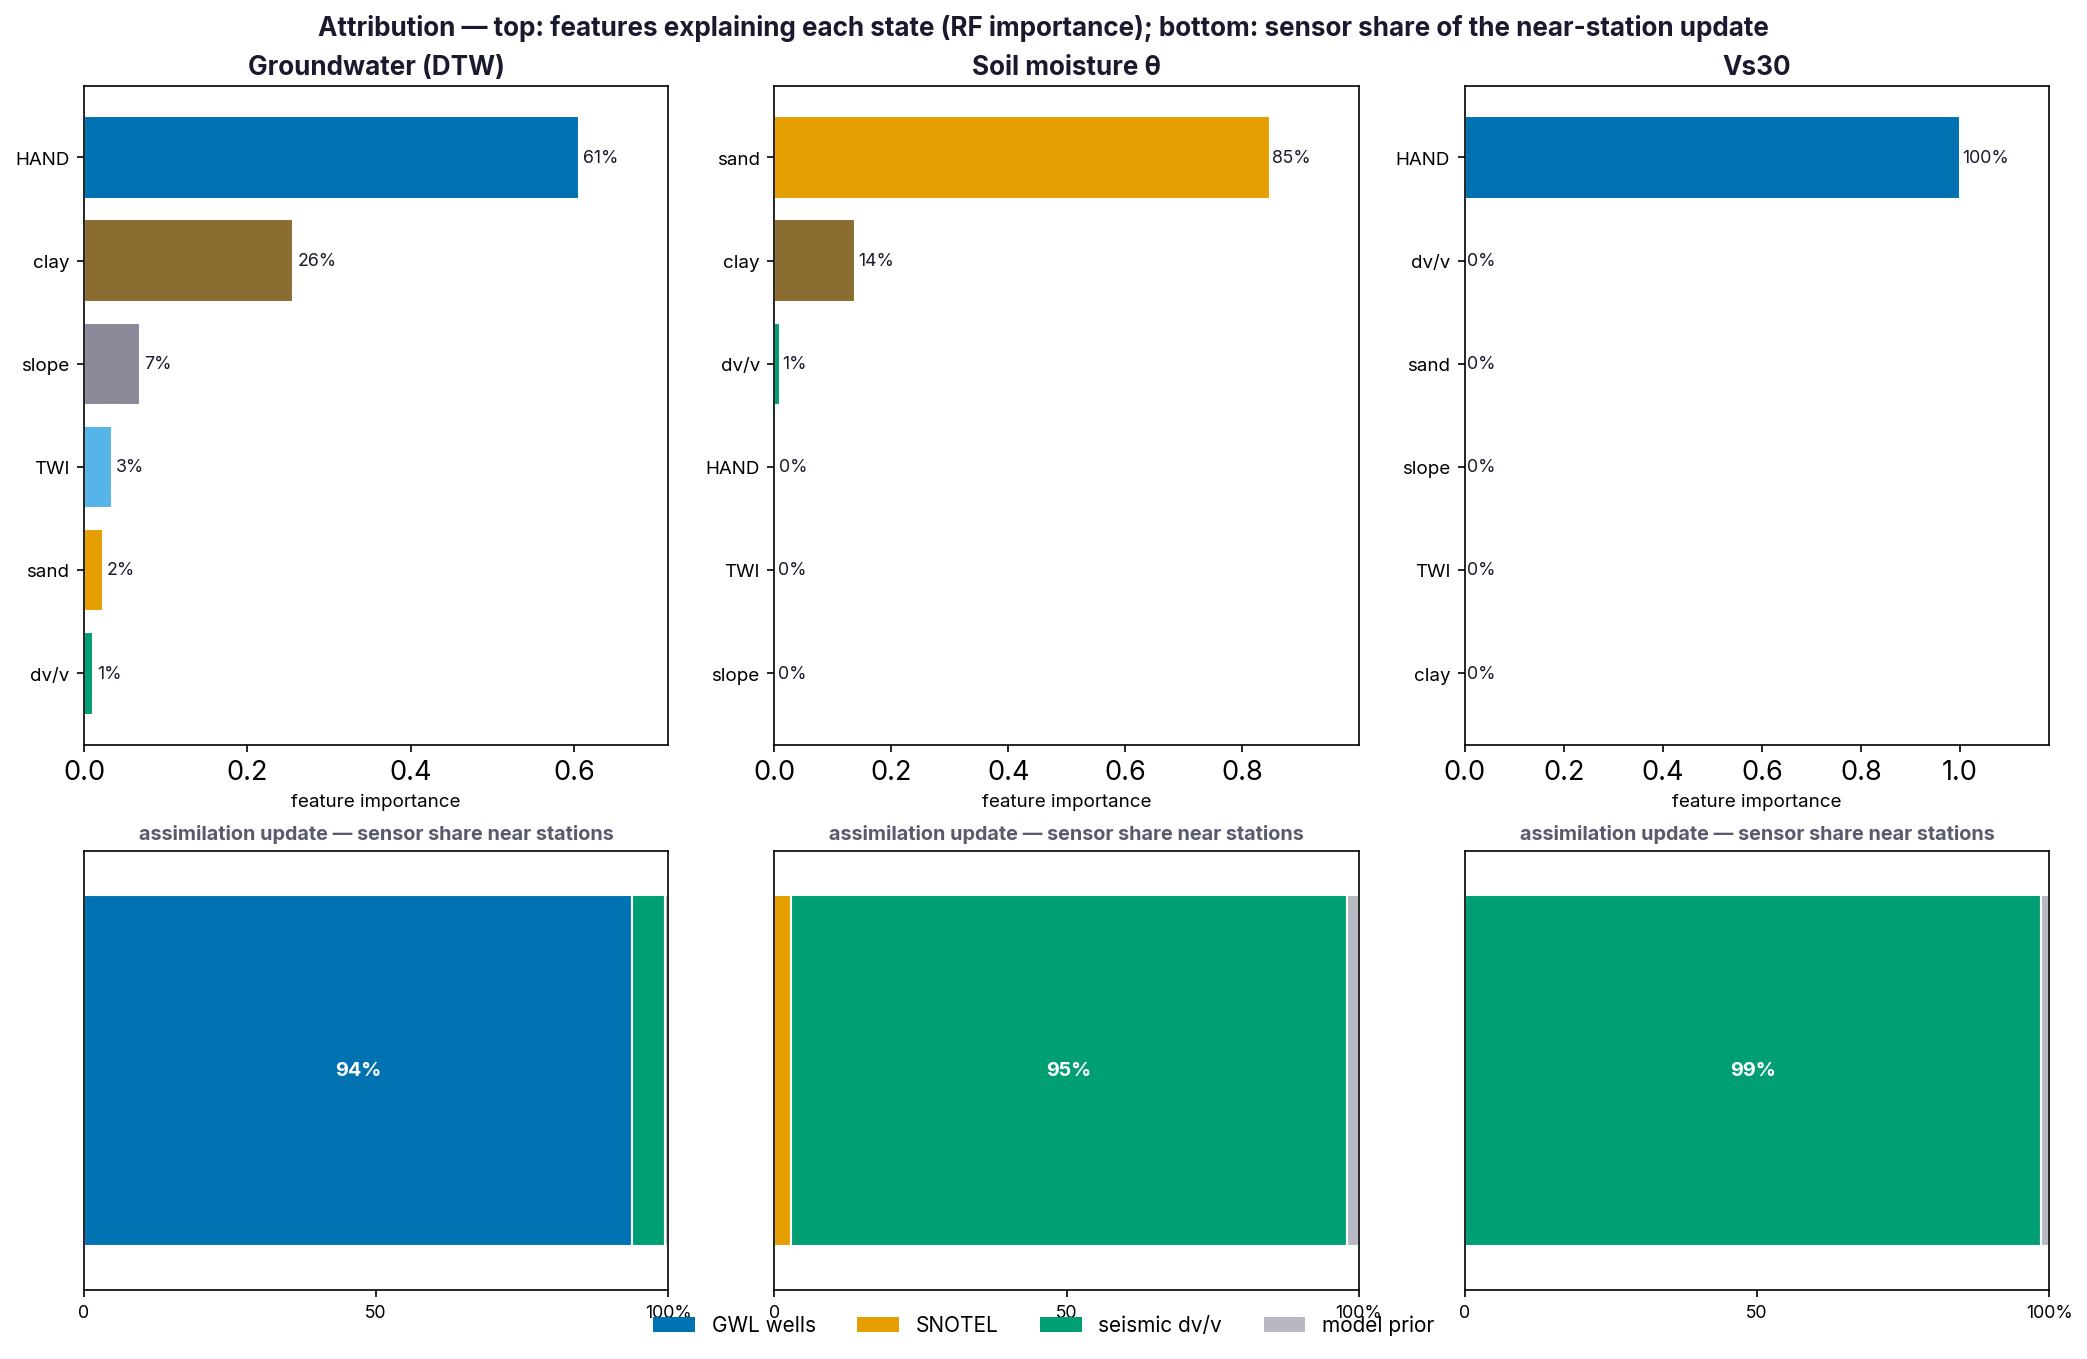
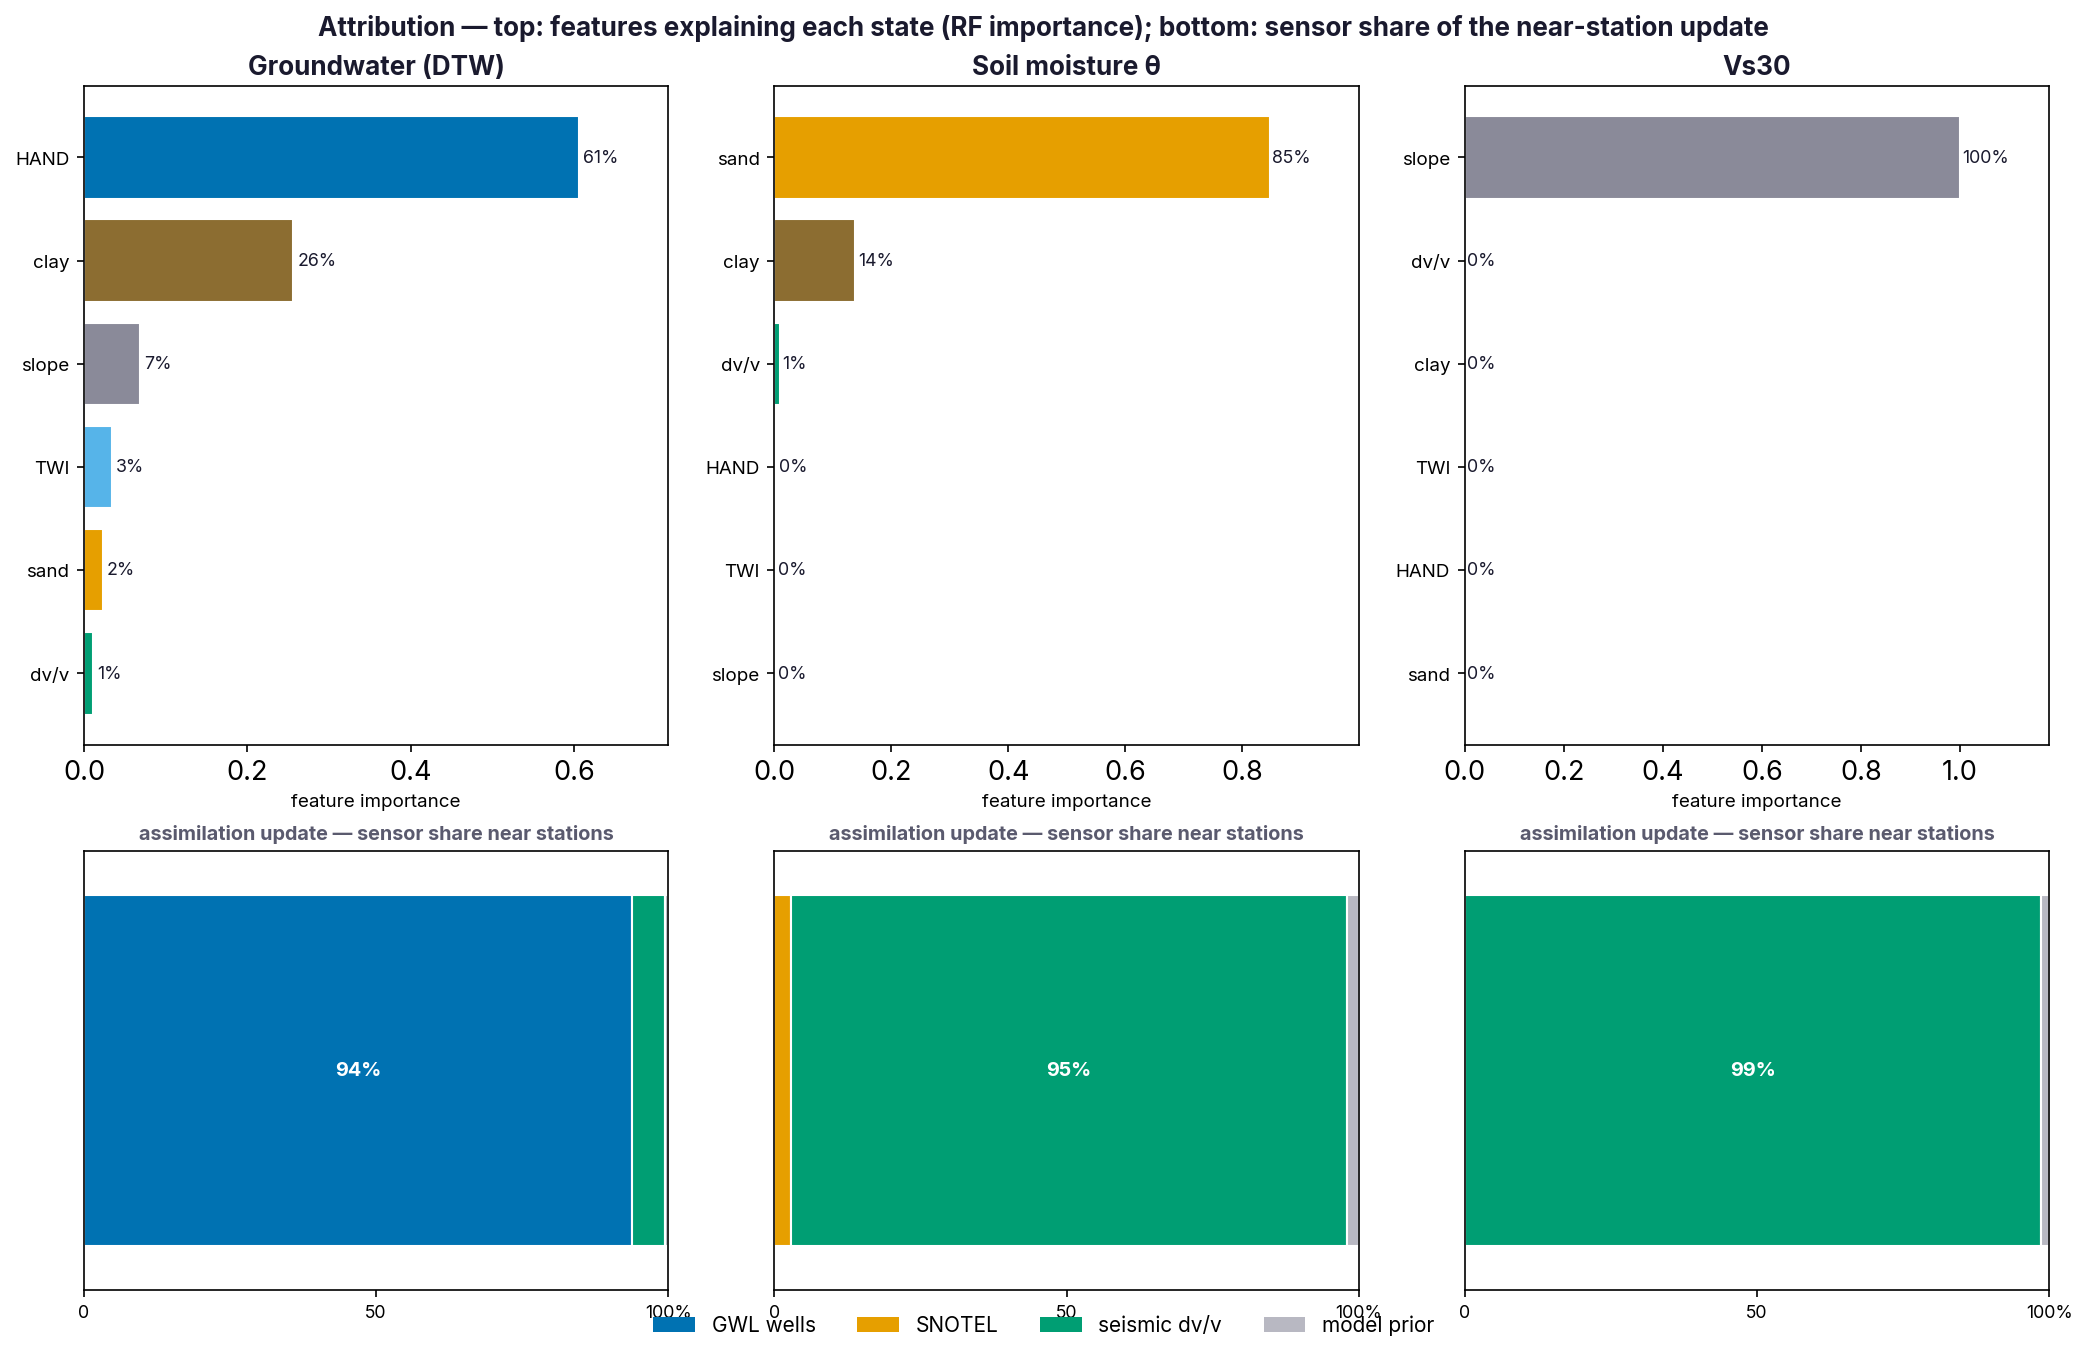
feat(#54): real Vs30 — Wald-Allen slope proxy + USGS fetcher + Sanger-Maurer placeholder
Replaces the synthetic HAND-ramp Vs30 (which never reached the C/B boundary and whose attribution
was a tautology) with a defensible site-condition estimate.

- src/data/fetch_vs30.py:
    * wald_allen_vs30(slope_deg): Wald & Allen (2007) topographic-slope -> Vs30 binned proxy
      (active-tectonic, Cascadia), the standard method behind the USGS global Vs30 model, applied to
      the native 90 m 3DEP slope. Spans the full NEHRP range 180-760 m/s (median 360).
    * fetch_usgs_vs30(bbox): downloads + clips the USGS global Vs30 grid (graceful fallback).
    * fetch_sanger_maurer_vs30(bbox): placeholder delegating to fetch_gaia (GAIA vs-STAC).
    * get_vs30(source=wald_allen|usgs|sanger_maurer) unified accessor + CLI. pixi `vs30` task uses it.
- The twin now reads the real vs30_90m.tif; its attribution flips from 100% HAND (tautology) to
  100% SLOPE (Wald-Allen's intended physical predictor) and Vs30 sits at a realistic ~432 m/s
  (NEHRP C/D), correctly quasi-static.
- Report: Vs30 reclassified real (statistical/physical, not synthetic); caption, provenance,
  classification, attribution, and roadmap updated; Wald & Allen (2007) cited (DOI verified).
- tests/test_vs30.py: monotone, NEHRP range, bin mapping, NaN handling.

Addresses #54. vs30_90m.tif is a data artifact (pixi run vs30). All suites green; twin + docs
regenerated.

Changed region(s): [[0.6852, 0.0618, 0.9655, 0.1545]]

diff --git a/src/data/fetch_vs30.py b/src/data/fetch_vs30.py
@@ -1,0 +1,150 @@
+"""Vs30 (time-averaged shear-wave velocity, top 30 m) for the near-surface stiffness product.
+
+Replaces the earlier synthetic HAND ramp (issue #54) with defensible Vs30 from three sources:
+
+  1. **Wald-Allen slope proxy (default, always available).** Wald & Allen (2007) / Allen & Wald
+     (2009) map topographic slope to Vs30 -- steeper terrain (bedrock outcrop, thin soil) is stiffer,
+     flat valley fill is soft. This is the standard terrain proxy behind the USGS global Vs30 model,
+     applied here to the native 90 m 3DEP slope. The Pacific Northwest (Cascadia) is active-tectonic,
+     so the active-tectonic bins are used by default.
+  2. **USGS global Vs30 grid** (the official product; a large ~30 arc-second GMT grid). Fetched and
+     clipped where reachable; falls back to the slope proxy.
+  3. **Sanger-Maurer parametric Vs30** (GAIA vs-STAC) -- a geology + geomorphon model. Placeholder
+     that delegates to :func:`src.data.fetch_gaia.fetch_vs30`; the STAC is not always reachable.
+
+Output: ``data/processed/vs30_90m.tif`` (EPSG:5070, 90 m). Unlike the HAND ramp, this is a real
+site-condition estimate suitable (with its uncertainty) for NEHRP site class -- see the geotechnical
+review in ``docs/peer_review.md``.
+"""
+
+from __future__ import annotations
+
+import argparse
+import logging
+from pathlib import Path
+
+import numpy as np
+
+logger = logging.getLogger("fetch_vs30")
+
+PUGET_CASCADES_BBOX = (-123.3, 46.8, -120.8, 48.5)
+USGS_GLOBAL_VS30_GRD = "https://apps.usgs.gov/shakemap_geodata/vs30/global_vs30.grd"
+
+# Wald & Allen (2007) topographic-slope -> Vs30. Slope as gradient (m/m); Vs30 in m/s. Bins map to
+# NEHRP classes E(180) / D(240-360) / C(490-620) / B(760). ACTIVE-TECTONIC table (Cascadia). Lower
+# bin edges (exclusive-upper) and the Vs30 assigned at/above each edge. Verify against OFR 2007-1357.
+_WA_ACTIVE_EDGES = np.array([2.2e-3, 6.3e-3, 0.018, 0.050, 0.10, 0.138])
+_WA_ACTIVE_VS30 = np.array([180.0, 240.0, 300.0, 360.0, 490.0, 620.0, 760.0])
+# Stable-continental bins are steeper for a given Vs30; not used for the PNW (kept for completeness).
+_WA_STABLE_EDGES = np.array([2.0e-5, 2.0e-3, 4.0e-3, 7.2e-3, 0.013, 0.018])
+_WA_STABLE_VS30 = np.array([180.0, 240.0, 300.0, 360.0, 490.0, 620.0, 760.0])
+
+
+def wald_allen_vs30(slope_deg, region="active"):
+    """Vs30 (m/s) from topographic slope (degrees) via the Wald-Allen binned proxy.
+
+    ``region`` is ``"active"`` (default; Cascadia) or ``"stable"``. Slope is converted to gradient
+    (tan of the angle) and binned. NaN slope -> NaN Vs30.
+    """
+    edges, vs30 = ((_WA_ACTIVE_EDGES, _WA_ACTIVE_VS30) if region == "active"
+                   else (_WA_STABLE_EDGES, _WA_STABLE_VS30))
+    s = np.asarray(slope_deg, dtype="float64")
+    grad = np.tan(np.deg2rad(s))
+    idx = np.digitize(grad, edges)                      # 0..len(edges) -> vs30 bin
+    out = vs30[np.clip(idx, 0, len(vs30) - 1)]
+    return np.where(np.isfinite(s), out, np.nan).astype("float32")
+
+
+def vs30_from_slope(slope_tif, region="active"):
+    """Apply the Wald-Allen proxy to a slope raster (degrees); returns a Vs30 DataArray (m/s)."""
+    import rioxarray as rxr
+
+    slope = rxr.open_rasterio(slope_tif, masked=True).squeeze("band", drop=True)
+    vs = wald_allen_vs30(slope.values, region=region)
+    return slope.copy(data=vs).rio.write_crs(slope.rio.crs)
+
+
+def fetch_usgs_vs30(bbox=PUGET_CASCADES_BBOX, like=None, cache=Path("data/cache/vs30")):
+    """Download + clip the USGS global Vs30 grid; returns a DataArray or None if unreachable.
+
+    The global grid is a large (~600 MB) 30 arc-second GMT file; this attempts the documented URL,
+    clips to ``bbox``, and (if ``like`` given) reprojects to that grid. On any failure it logs and
+    returns None so the caller falls back to the slope proxy. Cached once downloaded.
+    """
+    import rioxarray as rxr
+
+    cache = Path(cache); cache.mkdir(parents=True, exist_ok=True)
+    local = cache / "global_vs30.grd"
+    try:
+        if not local.exists():
+            import urllib.request
+            logger.info("Downloading USGS global Vs30 grid (large) from %s ...", USGS_GLOBAL_VS30_GRD)
+            urllib.request.urlretrieve(USGS_GLOBAL_VS30_GRD, local)
+        w, s, e, n = bbox
+        vs = rxr.open_rasterio(local, masked=True).squeeze("band", drop=True)
+        vs = vs.rio.clip_box(w, s, e, n)
+        return vs.rio.reproject_match(like) if like is not None else vs
+    except Exception as exc:
+        logger.warning("USGS Vs30 fetch unavailable (%s); use the slope proxy.", exc)
+        return None
+
+
+def fetch_sanger_maurer_vs30(bbox=PUGET_CASCADES_BBOX, output_dir=Path("data/processed")):
+    """Placeholder: pull the Sanger-Maurer parametric Vs30 from the GAIA vs-STAC.
+
+    Delegates to :func:`src.data.fetch_gaia.fetch_vs30` (the GAIA vs-STAC catalog). The STAC is not
+    always reachable; returns the written path or None. Wired here so the pipeline can prefer the
+    parametric product once the catalog is live.
+    """
+    try:
+        from src.data.fetch_gaia import fetch_vs30 as _gaia_vs30
+
+        return _gaia_vs30(tuple(bbox), Path(output_dir))
+    except Exception as exc:
+        logger.warning("Sanger-Maurer (GAIA vs-STAC) Vs30 not available yet (%s).", exc)
+        return None
+
+
+def get_vs30(bbox=PUGET_CASCADES_BBOX, source="wald_allen",
+             slope_tif=Path("data/processed/terrain_slope_90m.tif"), like=None, region="active"):
+    """Unified Vs30 accessor. ``source`` in {wald_allen, usgs, sanger_maurer}; falls back to the
+    always-available slope proxy. Returns a Vs30 DataArray (m/s)."""
+    if source == "wald_allen":
+        return vs30_from_slope(slope_tif, region=region)
+    if source == "usgs":
+        vs = fetch_usgs_vs30(bbox, like=like)
+        return vs if vs is not None else vs30_from_slope(slope_tif, region=region)
+    if source == "sanger_maurer":
+        p = fetch_sanger_maurer_vs30(bbox)
+        if p is not None and Path(p).exists():
+            import rioxarray as rxr
+            return rxr.open_rasterio(p, masked=True).squeeze("band", drop=True)
+        logger.info("Falling back to the Wald-Allen slope proxy for Vs30.")
+        return vs30_from_slope(slope_tif, region=region)
+    raise ValueError(f"unknown Vs30 source {source!r}")
+
+
+def main():
+    logging.basicConfig(level=logging.INFO, format="%(levelname)s %(name)s: %(message)s")
+    p = argparse.ArgumentParser(description="Produce a 90 m Vs30 raster (Wald-Allen slope proxy by default).")
+    p.add_argument("--bbox", type=float, nargs=4, metavar=("W", "S", "E", "N"),
+                   default=PUGET_CASCADES_BBOX)
+    p.add_argument("--source", choices=["wald_allen", "usgs", "sanger_maurer"], default="wald_allen")
+    p.add_argument("--slope", type=Path, default=Path("data/processed/terrain_slope_90m.tif"))
+    p.add_argument("--region", choices=["active", "stable"], default="active")
+    p.add_argument("--output", type=Path, default=Path("data/processed/vs30_90m.tif"))
+    args = p.parse_args()
+
+    vs = get_vs30(tuple(args.bbox), source=args.source, slope_tif=args.slope, region=args.region)
+    if vs.rio.crs is None:
+        vs = vs.rio.write_crs("EPSG:5070")
+    args.output.parent.mkdir(parents=True, exist_ok=True)
+    vs.rio.to_raster(args.output)
+    finite = np.isfinite(vs.values)
+    logger.info("Wrote Vs30 (%s) to %s | range %.0f-%.0f m/s, median %.0f",
+                args.source, args.output, float(np.nanmin(vs.values)), float(np.nanmax(vs.values)),
+                float(np.nanmedian(vs.values[finite])))
+
+
+if __name__ == "__main__":
+    main()

diff --git a/tests/test_vs30.py b/tests/test_vs30.py
@@ -1,0 +1,37 @@
+"""Tests for the Wald-Allen Vs30 slope proxy (issue #54).
+
+Runs standalone (`python -m tests.test_vs30`); also pytest-discoverable.
+"""
+
+from __future__ import annotations
+
+import numpy as np
+
+from src.data.fetch_vs30 import wald_allen_vs30
+
+
+def test_monotone_and_nehrp_range():
+    slopes = np.array([0.0, 1.0, 3.0, 8.0, 20.0])
+    vs = wald_allen_vs30(slopes)
+    assert np.all(np.diff(vs) >= 0)                 # steeper terrain -> stiffer (non-decreasing)
+    assert vs[0] == 180.0                            # flat valley fill -> NEHRP E
+    assert vs[-1] == 760.0                           # steep -> NEHRP B/C boundary
+    assert np.all((vs >= 180.0) & (vs <= 760.0))     # spans the standard NEHRP Vs30 range
+
+
+def test_bins_map_to_expected_classes():
+    # a gentle 1 deg slope (gradient ~0.017) sits in the 300-360 range, not 180 and not 760
+    v = float(wald_allen_vs30(np.array([1.0]))[0])
+    assert 240.0 <= v <= 360.0
+
+
+def test_nan_slope_gives_nan():
+    vs = wald_allen_vs30(np.array([np.nan, 5.0]))
+    assert np.isnan(vs[0]) and np.isfinite(vs[1])
+
+
+if __name__ == "__main__":
+    test_monotone_and_nehrp_range()
+    test_bins_map_to_expected_classes()
+    test_nan_slope_gives_nan()
+    print("all Vs30 tests passed")

diff --git a/notebooks/make_digital_twin.py b/notebooks/make_digital_twin.py
@@ -105,7 +105,8 @@ def _load_static():
 
 
 def _vs30_field(like):
-    """Read vs30_90m.tif if present; else synthesize from HAND (vs30=180+520*(1-exp(-hand/30)))."""
+    """Read the real vs30_90m.tif if present (fetch_vs30: Wald-Allen slope proxy by default; USGS /
+    Sanger-Maurer optional); else fall back to a synthetic HAND ramp with a clear provenance flag."""
     tif = PROC / "vs30_90m.tif"
     if tif.exists():
         v = rxr.open_rasterio(tif, masked=True).squeeze("band", drop=True)
@@ -488,7 +489,8 @@ def main():
 
     meta.update(n_frames=N_FRAMES, dt_days=DT_DAYS, span_days=DT_DAYS * (N_FRAMES - 1),
                 display_px=list(grid["shape"]), poster_frame=frame,
-                vs30_source=("fetched" if (PROC / "vs30_90m.tif").exists() else "synthetic-from-HAND"),
+                vs30_source=("vs30_90m.tif (fetch_vs30: Wald-Allen slope proxy)"
+                             if (PROC / "vs30_90m.tif").exists() else "synthetic-from-HAND"),
                 attribution=shares)
     (PROC / "digital_twin_summary.json").write_text(json.dumps(meta, indent=2))
     print("wrote twin + attribution; summary:", json.dumps(meta, indent=2))